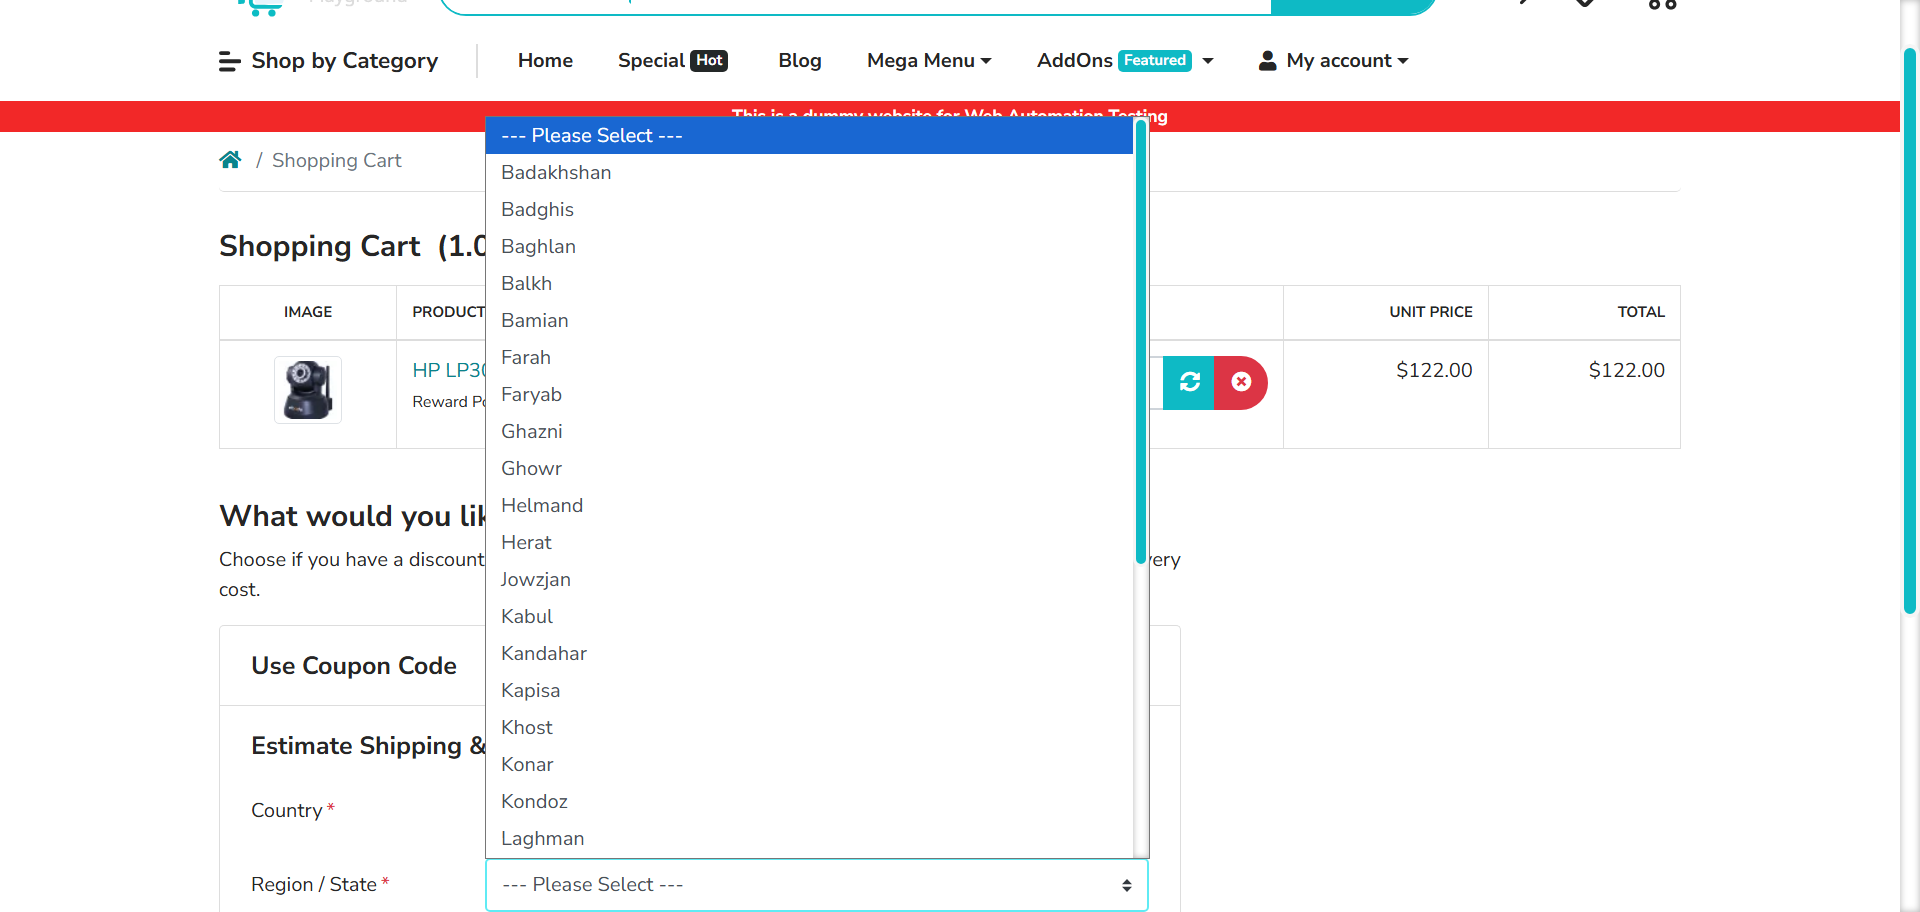
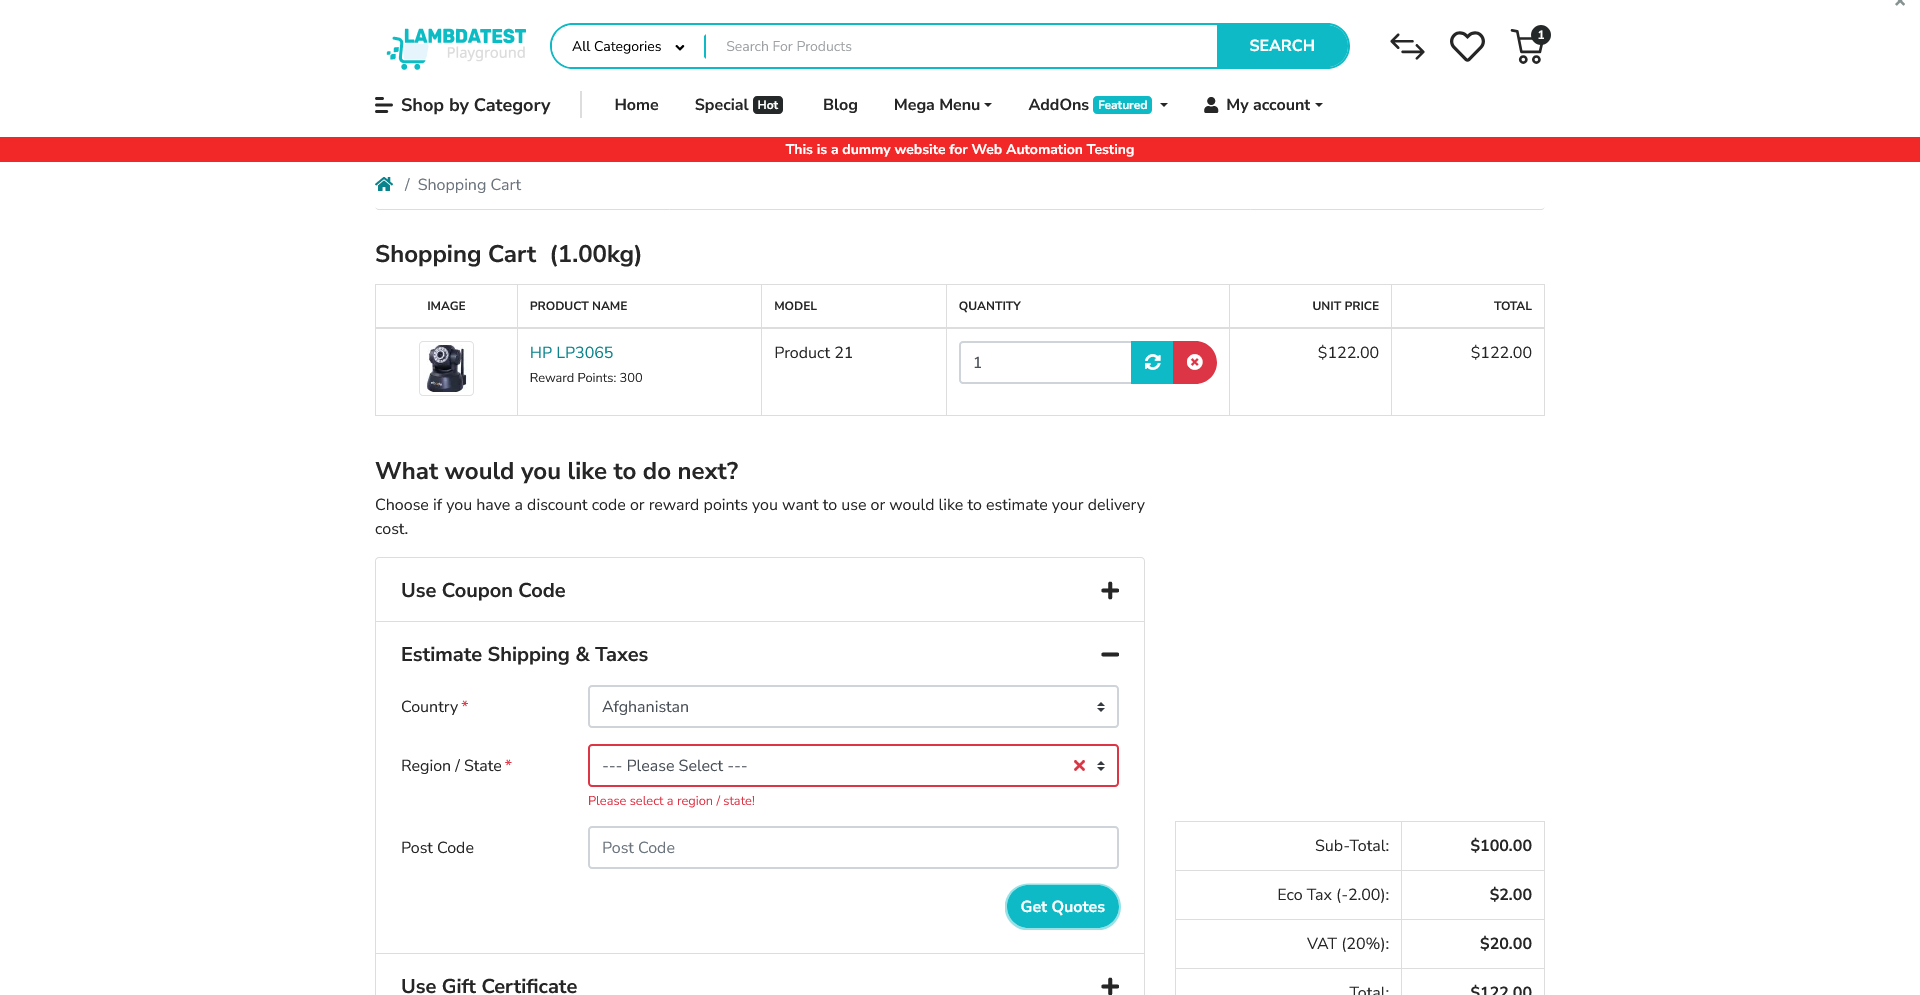
Rishwanth Run

diff --git a/src/test/java/com/runner/TestNgRunner.java b/src/test/java/com/runner/TestNgRunner.java
@@ -6,17 +6,20 @@ import org.testng.annotations.DataProvider;
 
 @CucumberOptions(
 
-		features = "src/test/resources/features/", glue = { "com.stepDefinitions", "com.hooks" }, plugin = { "pretty",
+		features = "src/test/resources/features/", 
+		glue = { "com.stepDefinitions", "com.hooks" }, 
+		plugin = { "pretty",
 				"html:target/cucumber-report.html", "json:target/cucumber-report.json",
 				"io.qameta.allure.cucumber7jvm.AllureCucumber7Jvm",
 				"com.aventstack.extentreports.cucumber.adapter.ExtentCucumberAdapter:",
 				"rerun:target/failedrerun.txt" },
-
+		tags="@Rishwanth",
 		monochrome = true)
+
 
 public class TestNgRunner extends AbstractTestNGCucumberTests {
 	@Override
-	@DataProvider(parallel = true)
+	@DataProvider(parallel = false)
 	public Object[][] scenarios() {
 		return super.scenarios();
 	}

diff --git a/src/test/java/com/stepDefinitions/AccountSD.java b/src/test/java/com/stepDefinitions/AccountSD.java
@@ -10,6 +10,7 @@ import com.actions.LoginPageAction;
 import com.utils.ConfigReader;
 
 import io.cucumber.datatable.DataTable;
+import io.cucumber.java.en.Given;
 import io.cucumber.java.en.Then;
 import io.cucumber.java.en.When;
 
@@ -20,6 +21,11 @@ public class AccountSD {
     LaunchPageAction lp = new LaunchPageAction();
 
     private static final Logger log = LogManager.getLogger(AccountSD.class);
+    
+    @Given("The user is in HomePage of Ecommerce Lambda TestWebsite")
+    public void the_user_is_in_home_page_of_ecommerce_lambda_test_website() {
+    	lpa.launchWebUrl();
+    }
 
     @When("The user Enters valid email and valid password")
     public void the_user_enters_valid_email_and_valid_password() {